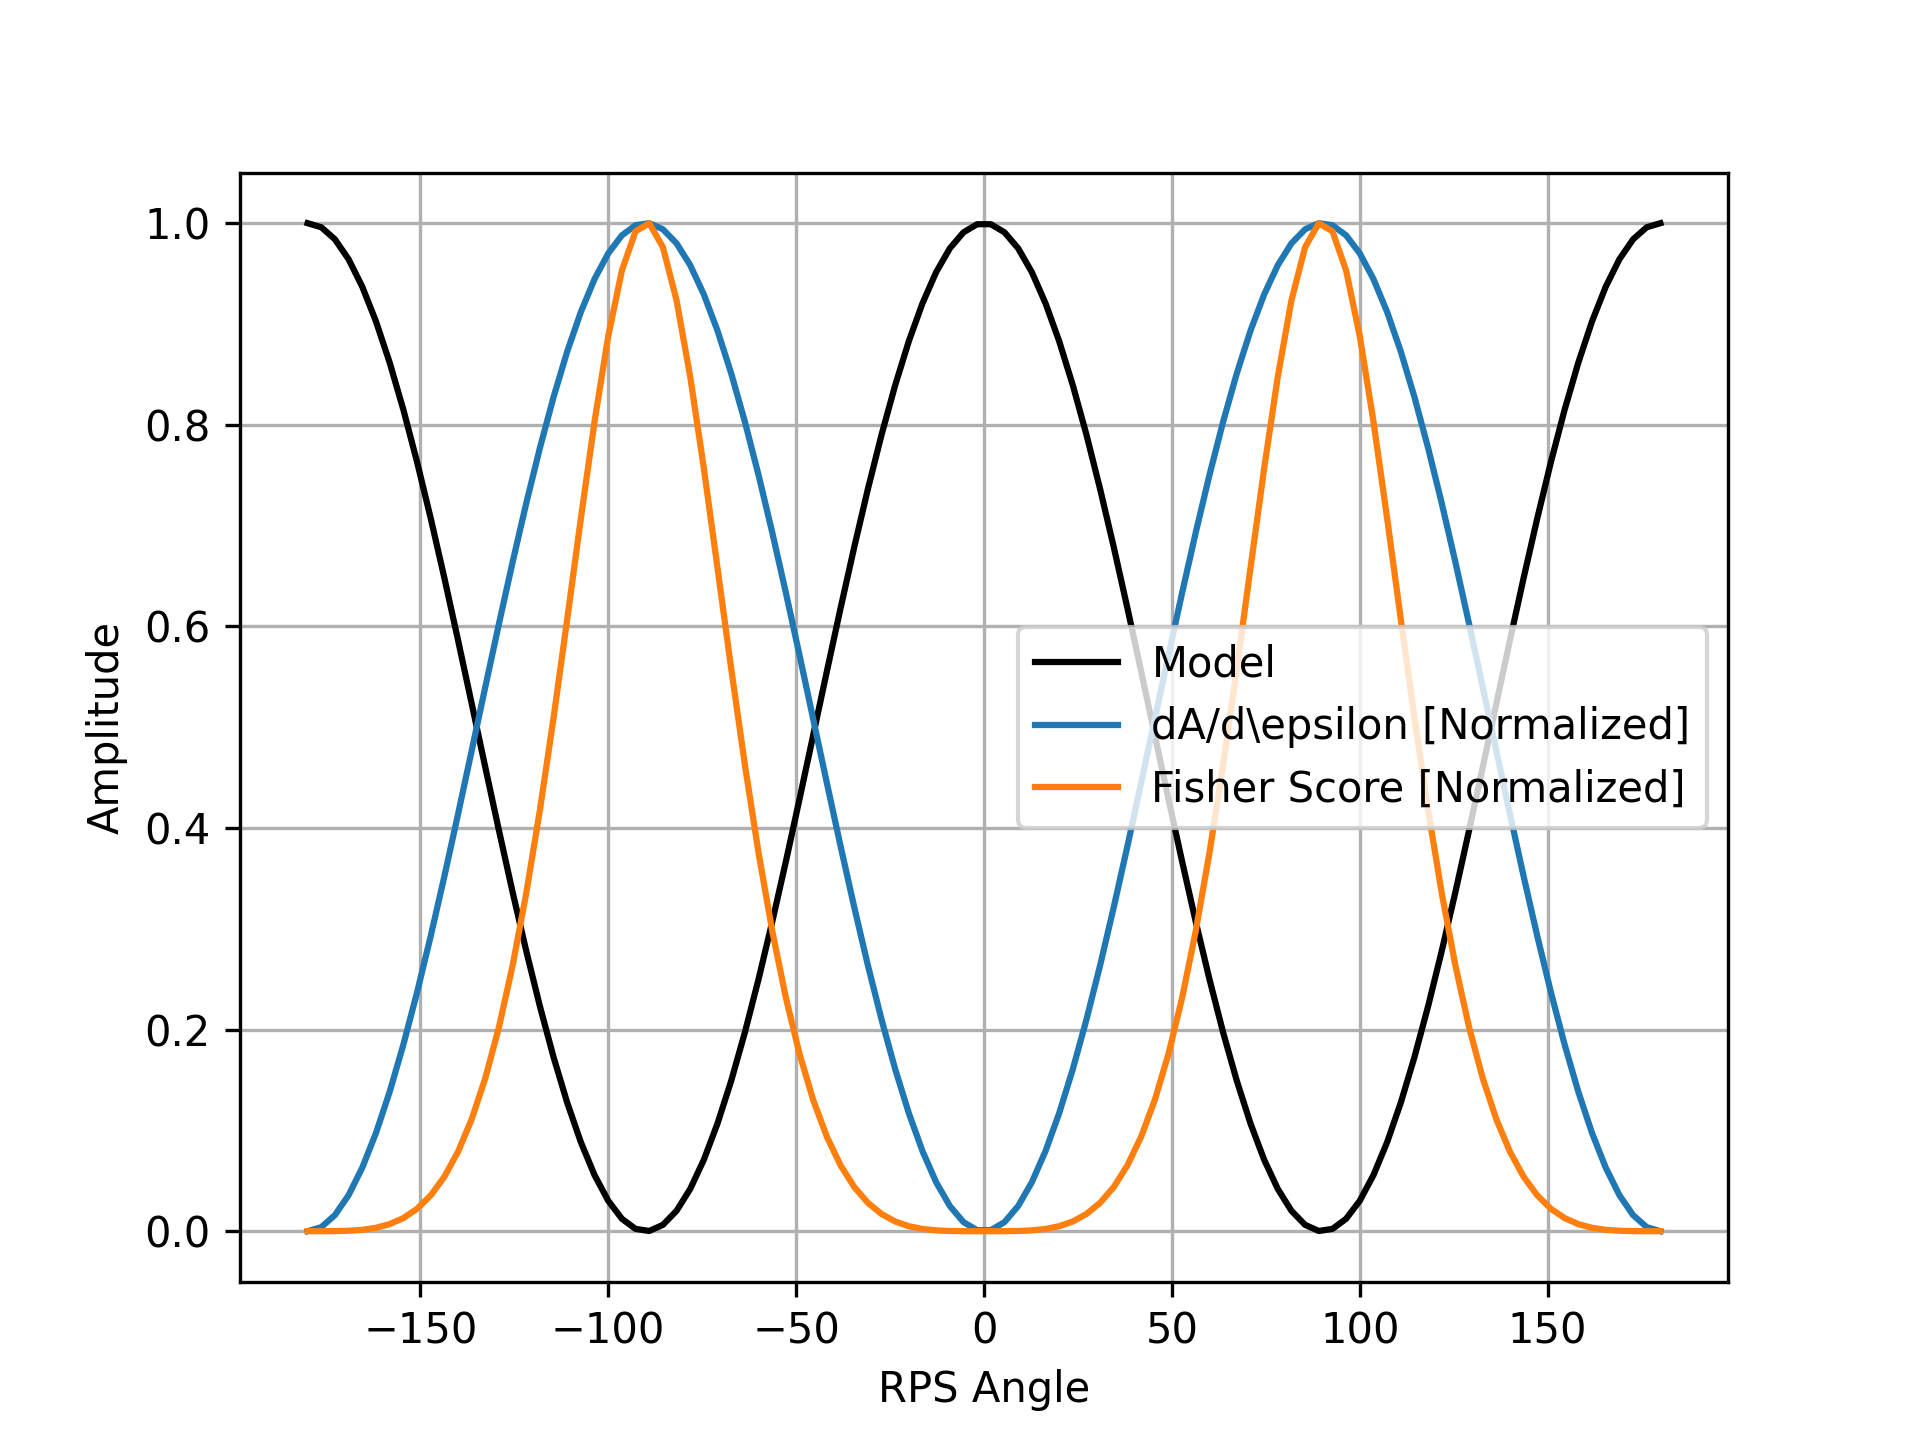
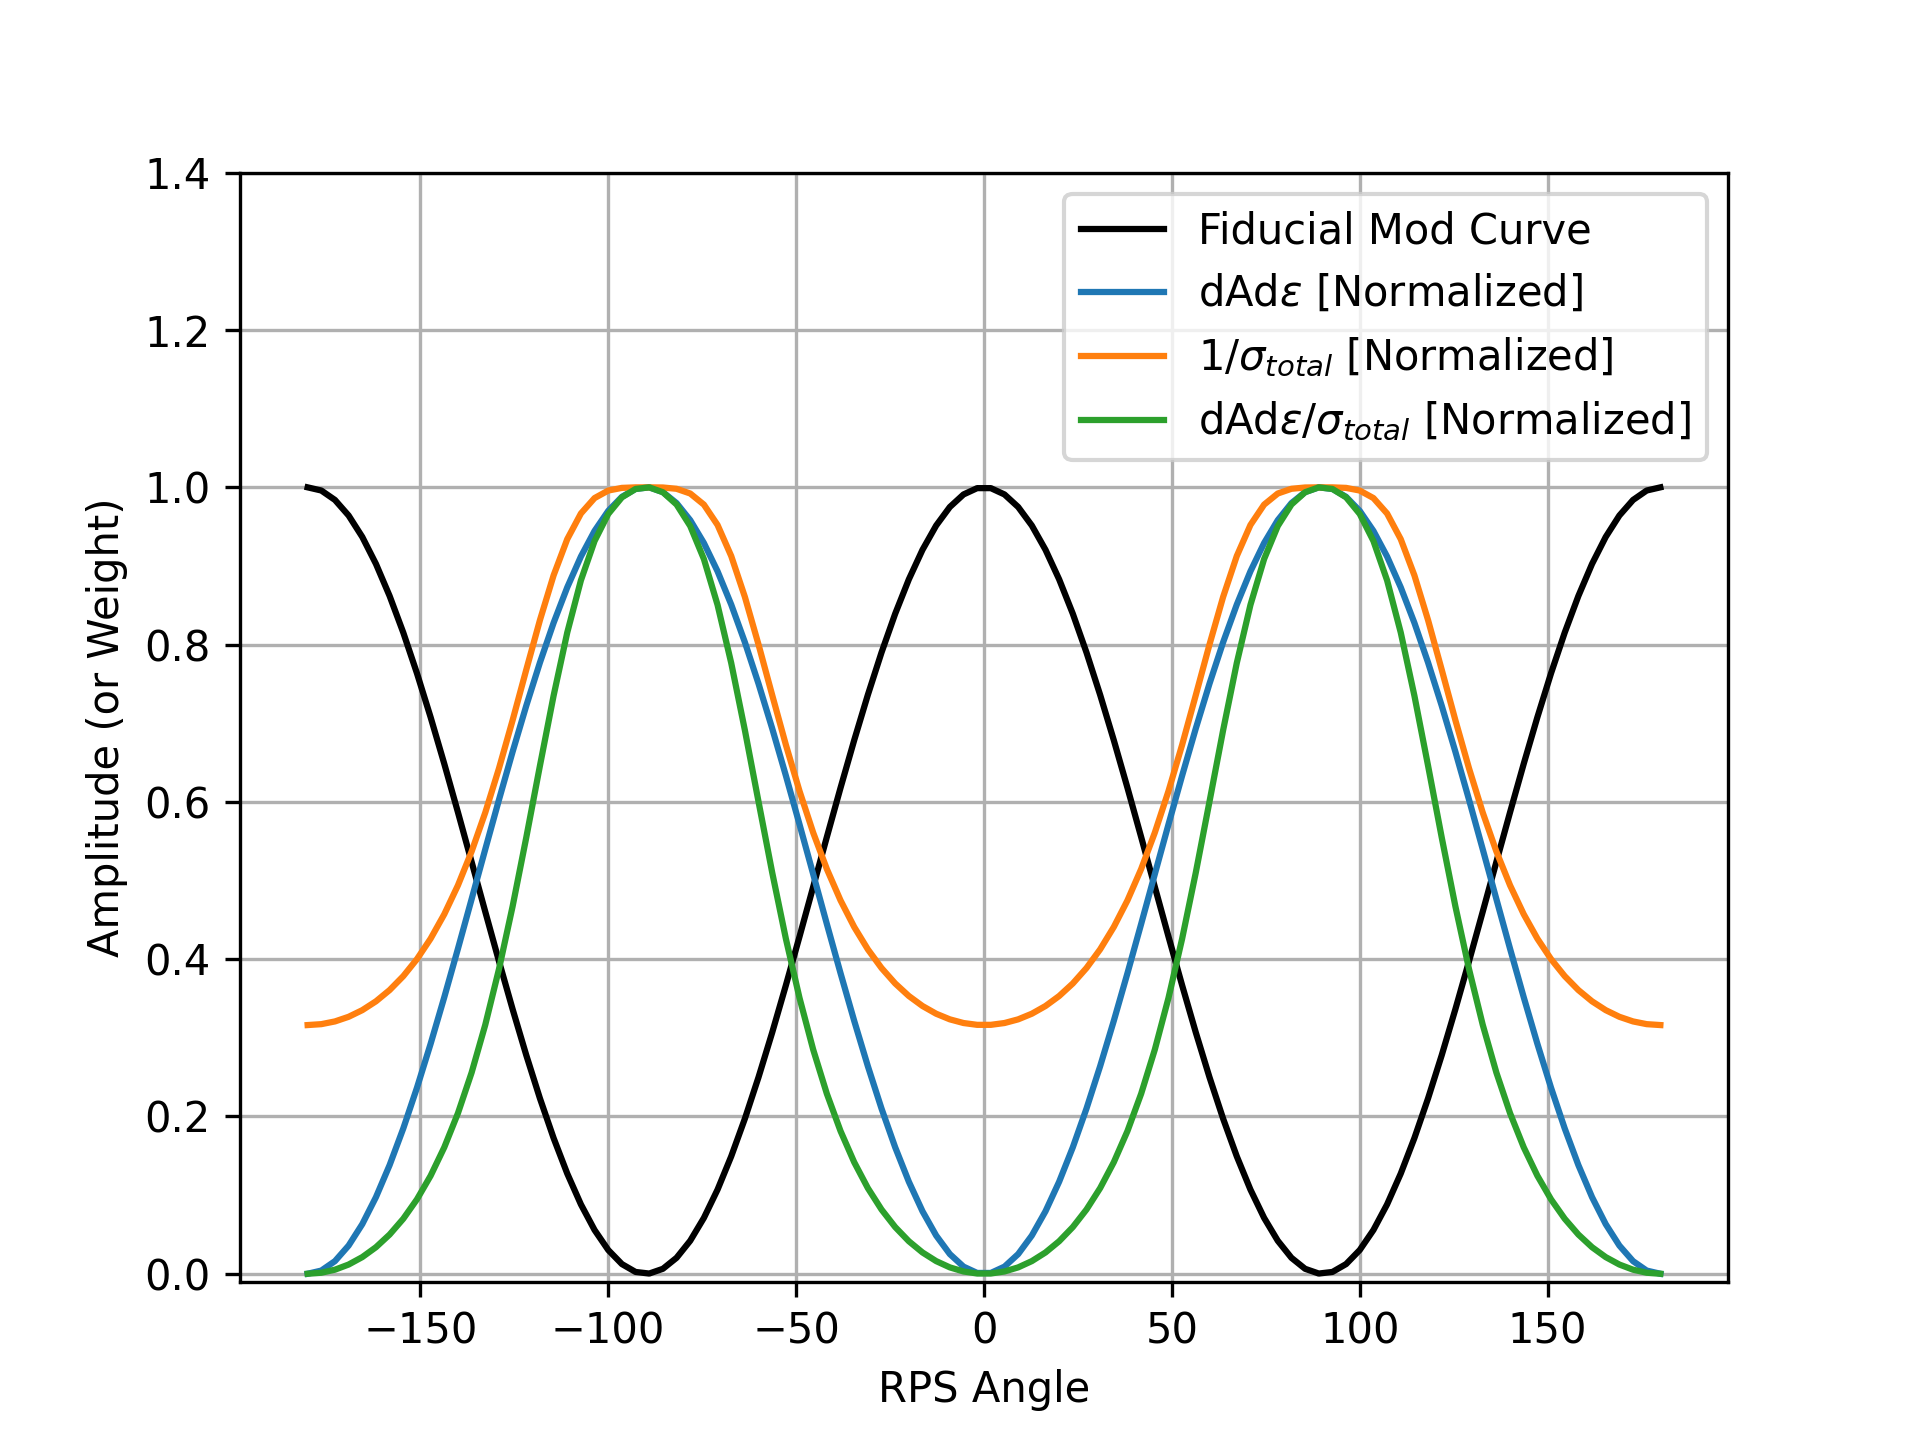
Update to reweight posting

diff --git a/2025mmdd_mod_curve_weighting/index.html b/2025mmdd_mod_curve_weighting/index.html
@@ -92,7 +92,7 @@ A(\theta) = G\left(\cos\left(2\left(\theta+\psi\right)\right)-\frac{\epsilon+1}{
 </p>
 
 \begin{equation}
-A(\theta) = G\left(\cos^2\left(\theta+\psi\right)-\epsilon\sin^2\left(\theta+\psi\right)\right)\left(N_1\cos(\theta)+N_2\sin(\theta)+1\right)
+A(\theta) = G\left[\cos^2\left(\theta+\psi\right)+\epsilon\sin^2\left(\theta+\psi\right)\right]\left[N_1\cos(\theta)+N_2\sin(\theta)+1\right]
 \end{equation}
 
 
@@ -106,7 +106,8 @@ A(\theta) = G\left(\cos^2\left(\theta+\psi\right)-\epsilon\sin^2\left(\theta+\ps
 <figure>
     <img src="figs/eps_fit_comparison.png" width="75%"/>
     <figcaption>
-        
+        Fit values of $\epsilon$ and amplitude $G$, for input values of $\epsilon$.
+        Input Amplitude is fixed at 1, and $\psi$, $N_1$, $N_2$ are fixed at zero.
     </figcaption>
 </figure>
 
@@ -118,16 +119,25 @@ A(\theta) = G\left(\cos^2\left(\theta+\psi\right)-\epsilon\sin^2\left(\theta+\ps
 
 \begin{equation}
 \begin{aligned}
-\frac{\partial A}{\partial \epsilon} = G\sin^2\left(\theta+\psi\right)\left(N_1\cos(\theta)+N_2\sin(\theta)+1\right)
+\frac{\partial A}{\partial \epsilon} = G\sin^2\left(\theta+\psi\right)
 \end{aligned}
 \end{equation}
 
-<p>We can also see how our flat noise + amplitude-scaling noise impacts the weights by looking at the score of the Fisher Information Matrix</p>
+<p>Where I'm assuming $N_1$ and $N_2$ are negligble.</p>
+
+<p>We can also need to consider our noise model of flat noise + amplitude-scaling noise:
+</p>    
+\begin{equation}
+\sigma^2_{total} = \sigma_{amp}^2\sigma_{white}^2+\cos^4(\theta)
+\end{equation}  
+
+<p>the weights by looking at the score of our chi-square from e.g. the Fisher Information Matrix</p>
 
 \begin{equation}
 \begin{aligned}
-I_{\epsilon,\epsilon} &= \frac{1}{\sigma_{total}^2}\left(\frac{\partial A}{\partial \epsilon}\right)^2\\
-&= \frac{\left(G\sin^2\left(\theta+\psi\right)\left(N_1\cos(\theta)+N_2\sin(\theta)+1\right)\right)^2}{\left(\sigma_{flat}+A(\theta|X)\sigma_{amp}\right)^2}\\
+I_{\epsilon,\epsilon}\left(\theta\right) &= \frac{1}{\sigma_{total}^2}\left(\frac{\partial A}{\partial \epsilon}\right)^2\\
+&\\
+&= \frac{\left(G\sin^2\left(\theta+\psi\right)\right)^2}{\sigma_{flat}^2+\hat{A}^2(\theta)\sigma_{amp}^2}\\
 \end{aligned}
 \end{equation}
 
@@ -140,15 +150,28 @@ I_{\epsilon,\epsilon} &= \frac{1}{\sigma_{total}^2}\left(\frac{\partial A}{\part
 
 
 
-<!-- 
-\begin{equation}
-\begin{aligned}
-I(\Theta) & = E[\frac{\partial}{\partial \Theta}\log f] \\
-& = E[\frac{\partial}{\partial \Theta}\chi^2]\\
-& = E[\frac{\partial}{\partial \Theta}\frac{A'-A(\Theta)}{\sigma^2}]\\
-\end{aligned}
-\end{equation} -->
+<figure>
+    <img alt="wgtsimpager" id="wgtsimpager" src="#" width="100%"/>
+    <figcaption>
 
+    </figcaption>
+    <script type="text/javascript">
+
+        pager.link("#wgtsimpager",
+            {
+                'Weighting|sim_wgt': ['Uniform|uniform', '1/$\\sigma^2$|sigmasq',
+                '$\\partial A/\\partial \\epsilon$|dAdE',
+                '$(\\partial A/\\partial \\epsilon)/\\sigma^2$|dAdEonsigmasq'],
+            },
+            function(params) {
+                return 'figs/eps_sim_weight_fit_case_'+params.sim_wgt+'_comparison.png';
+            });
+        pager.setparams({
+            'sim_wgt': 'uniform',
+        });
+    </script>
+
+</figure>
 
 
 <p>
@@ -163,7 +186,7 @@ I(\Theta) & = E[\frac{\partial}{\partial \Theta}\log f] \\
     <p></p>
     
     <figure>
-        <img alt="wgt pager" id="wgtpager" src="#" width="75%"/>
+        <img alt="wgtpager" id="wgtpager" src="#" width="75%"/>
         <figcaption>
 
         </figcaption>
